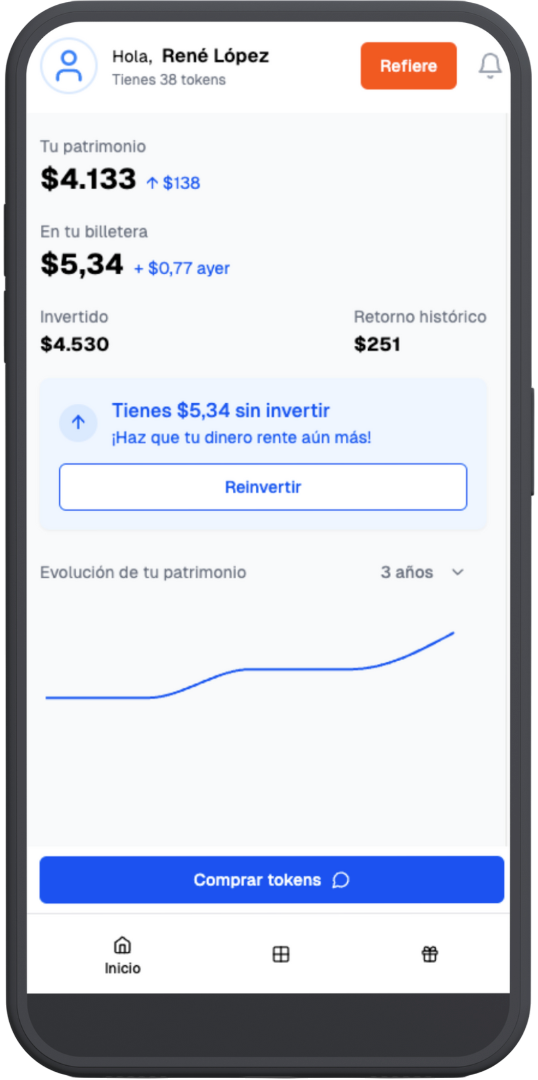
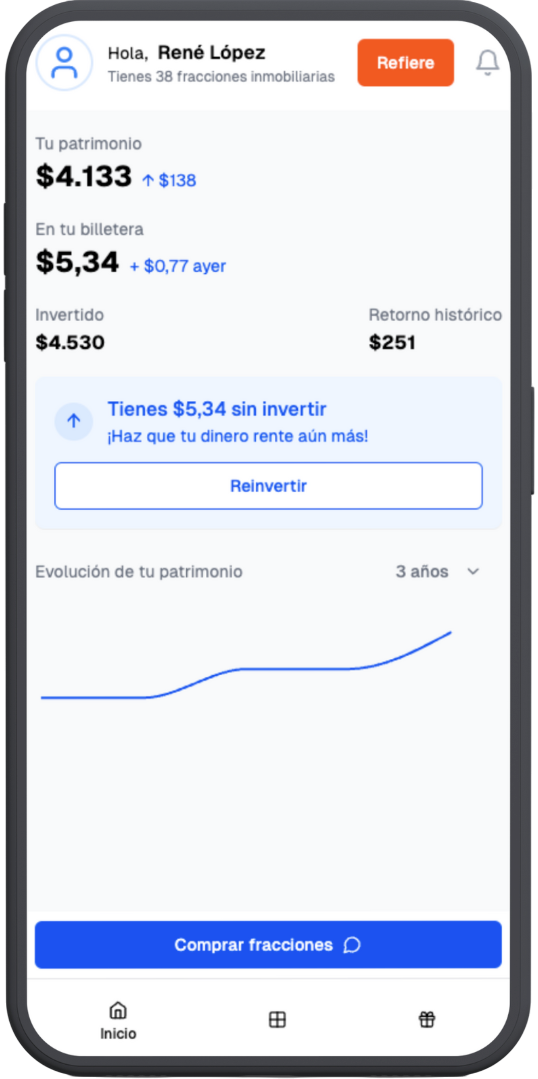
cambio textos, hero, imagen

diff --git a/src/components/FAQ.tsx b/src/components/FAQ.tsx
@@ -17,9 +17,9 @@ export function FAQ() {
         <Accordion type="single" collapsible className="space-y-4">
           {[
             {
-              question: "¿Qué es la Tokenización Inmobiliaria?",
+              question: "¿Qué es la Fragmentación Inmobiliaria?",
               answer:
-                "La tokenización inmobiliaria transforma propiedades en activos digitales (tokens), democratizando la inversión en bienes raíces. Esto permite acceder a inversiones inmobiliarias desde montos pequeños, ser copropietario digital y obtener beneficios sin comprar un inmueble completo, además de recibir ingresos pasivos por alquileres y plusvalía.",
+                "La fragmentación inmobiliaria transforma propiedades en activos digitales (fracciones inmobiliarias), democratizando la inversión en bienes raíces. Esto permite acceder a inversiones inmobiliarias desde montos pequeños, ser copropietario digital y obtener beneficios sin comprar un inmueble completo, además de recibir ingresos pasivos por alquileres y plusvalía.",
             },
             {
               question: "¿Quién administra la propiedad?",
@@ -31,18 +31,18 @@ export function FAQ() {
             },
             {
               question: "¿Cómo recibo mis pagos?",
-              answer: "Los pagos se realizan directamente a tu cuenta bancaria de forma automática.",
+              answer: "Los pagos se realizan a tu cuenta bancaria.",
             },
             {
-              question: "¿Qué es un token?",
-              answer: "Un token representa una fracción digital de una propiedad y sus beneficios económicos.",
+              question: "¿Qué es una fracción inmobiliaria?",
+              answer: "Una fracción inmobiliaria representa una fracción digital de una propiedad y sus beneficios económicos.",
             },
             {
-              question: "¿Puedo vender mis tokens antes?",
-              answer: "Sí, puedes vender tus tokens en cualquier momento a través de nuestra plataforma.",
+              question: "¿Puedo vender mis fracciones inmobiliarias antes?",
+              answer: "Sí, puedes vender tus fracciones inmobiliarias en cualquier momento a través de nuestra plataforma.",
             },
             {
-              question: "¿Cómo gano con mis tokens?",
+              question: "¿Cómo gano con mis fracciones inmobiliarias?",
               answer: "Ganas a través de los ingresos por alquiler y la plusvalía de la propiedad.",
             },
           ].map((item, index) => (

diff --git a/src/components/Header.tsx b/src/components/Header.tsx
@@ -75,13 +75,12 @@ export function Header() {
           className="text-2xl font-bold text-blue-800 hover:text-blue-600 transition-colors flex items-center"
         >
           <Image
-            src="https://hebbkx1anhila5yf.public.blob.vercel-storage.com/Untitled%20design%20(4)%20(2)-8CXmIjfynSf8zTCjPdrkzHtjEdNGLf.png"
+            src="/logo-rooftify.png"
             alt="Rooftify Logo"
-            width={36}
-            height={24}
+            width={200}
+            height={50}
             className="object-contain"
           />
-          Rooftify
         </Link>
         <nav className="hidden md:flex space-x-6">
           {navItems.map((item) => (

diff --git a/src/components/WhatWeDo.tsx b/src/components/WhatWeDo.tsx
@@ -9,8 +9,8 @@ export function WhatWeDo() {
     },
     {
       icon: Coins,
-      title: "Tokenizamos la inversión",
-      description: "Cada propiedad se divide en tokens para que puedas invertir sin barreras de entrada.",
+      title: "Fraccionamos la inversión",
+      description: "Cada propiedad se divide en fracciones para que puedas invertir sin barreras de entrada.",
     },
     {
       icon: Home,

diff --git a/src/components/HowItWorks.tsx b/src/components/HowItWorks.tsx
@@ -12,7 +12,7 @@ export function HowItWorks() {
       step: 2,
       icon: Coins,
       title: "Invierte con total flexibilidad",
-      description: "Compra tokens respaldados por bienes raíces desde solo USD 100.",
+      description: "Compra fracciones digitales respaldados por bienes raíces desde solo USD 100.",
     },
     {
       step: 3,

diff --git a/src/components/InvestmentAdvantages.tsx b/src/components/InvestmentAdvantages.tsx
@@ -10,7 +10,7 @@ export function InvestmentAdvantages() {
     {
       icon: Eye,
       title: "Seguridad y transparencia",
-      description: "Cada token representa una propiedad real.",
+      description: "Cada fracción representa una propiedad real.",
     },
     {
       icon: Scale,
